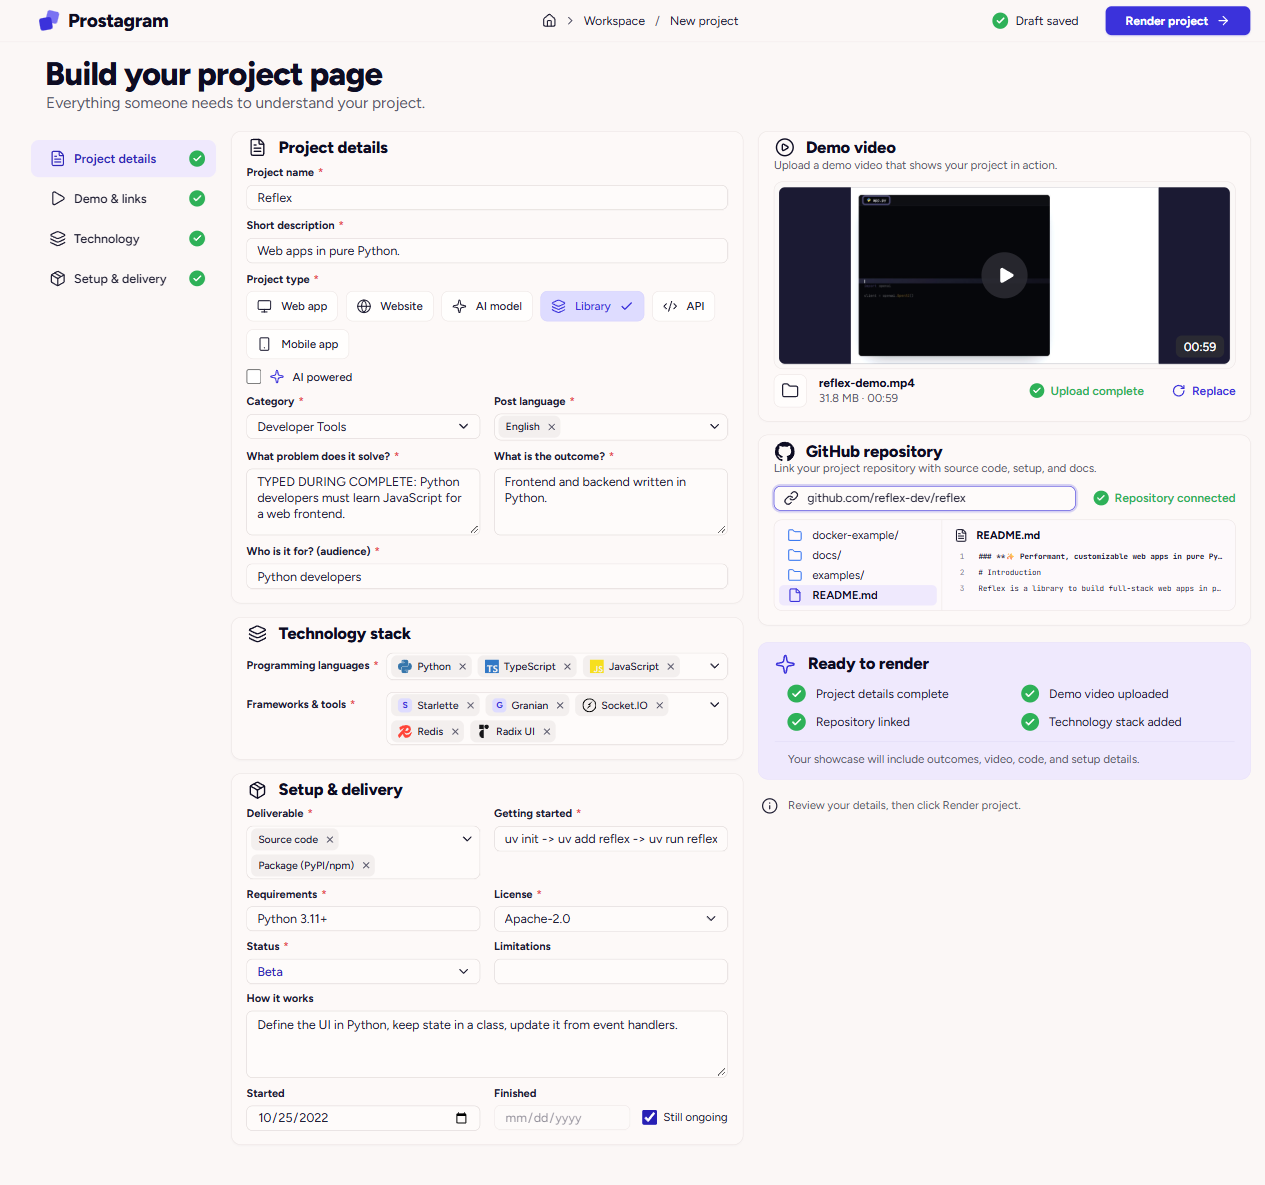
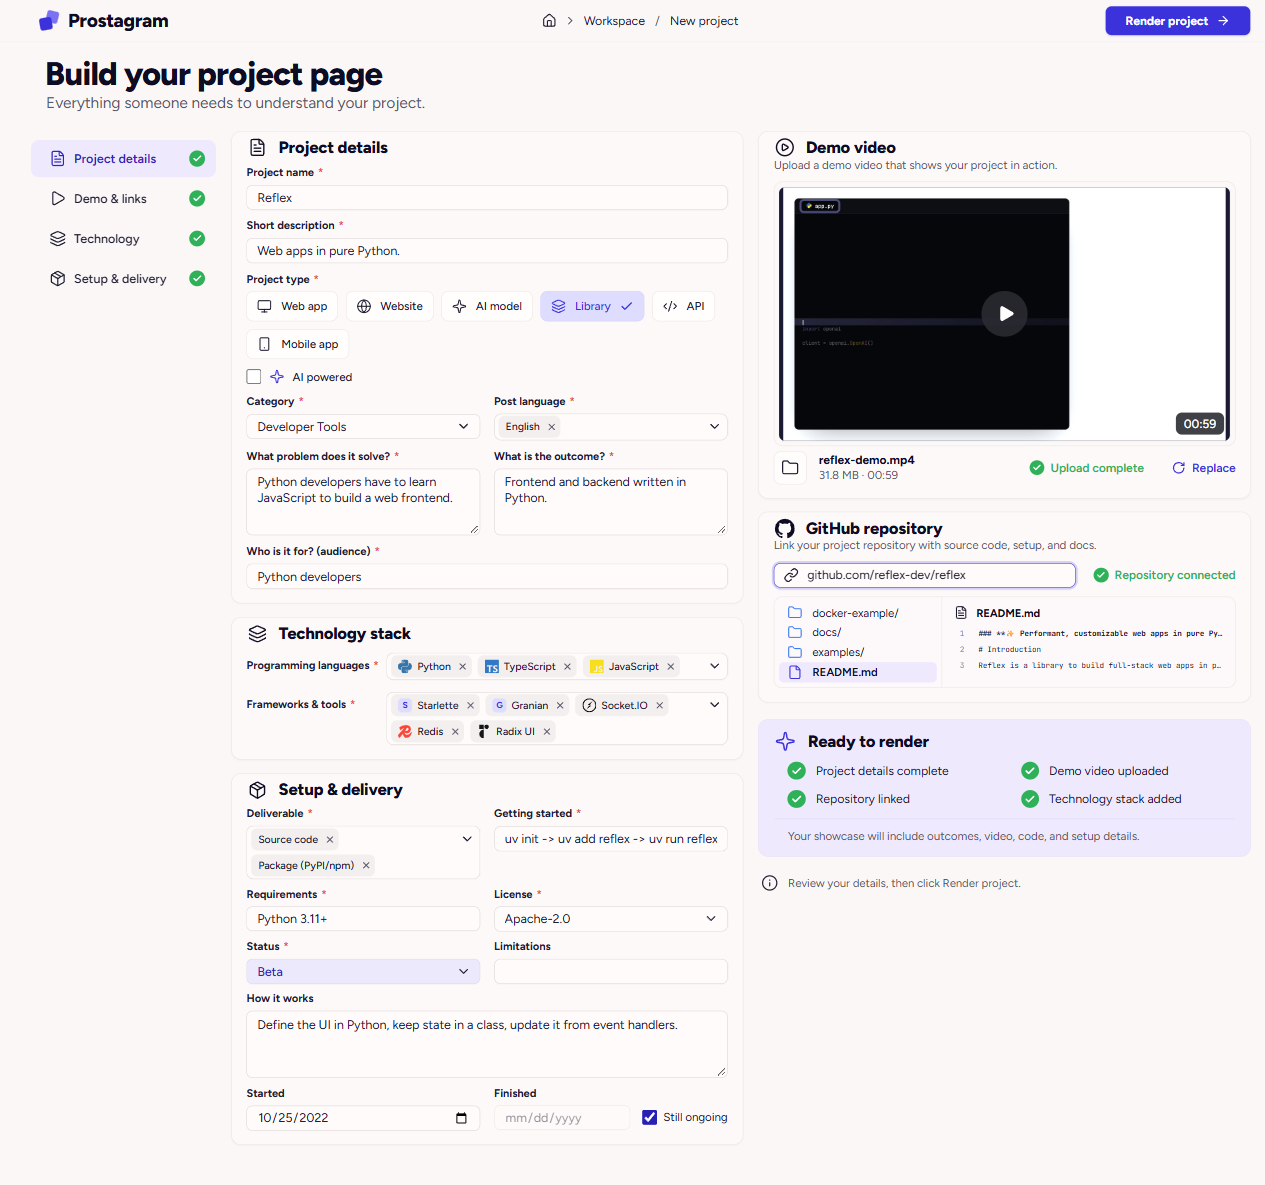
docs: decision D24 (no drafts), new upload flow in the spec and architecture notes

Changed region(s): [[0.6166, 0.1561, 0.9866, 0.7494], [0.185, 0.4059, 0.37, 0.4371], [0.7708, 0.0, 0.8324, 0.0312]]

diff --git a/docs/architecture.md b/docs/architecture.md
@@ -47,12 +47,12 @@ backend/app/
   errors.py    turns every error into one JSON shape
   health.py    GET /api/health
   catalog.py   every fixed list, text limit, upload rule and the tech catalog; GET /api/v1/catalog
-  storage.py   Cloudflare R2: signs upload/download links, checks and deletes files
+  storage.py   Cloudflare R2: signs upload/download links, checks, copies and deletes files
   github.py    reads a public repo once and makes its preview
   projects/    the project feature, split by job:
     models.py    the projects table
     schemas.py   what each endpoint accepts and returns (the API contract)
-    service.py   the business rules (drafts, uploads, repo, publishing)
+    service.py   the business rules (upload links, repo preview, creating a project on Render)
     router.py    HTTP only: read the request, call the service, return the answer
 backend/alembic/   database migrations (versioned changes to the tables)
 backend/tests/     tests that run against a real PostgreSQL test database
@@ -66,8 +66,8 @@ router.py  ->  service.py  ->  models.py (database)
 ```
 
 - The **router** knows HTTP (paths, status codes) and nothing about rules.
-- The **service** holds every rule ("a published project cannot be changed", "an ongoing project
-  has no finish date") and knows nothing about HTTP. It can be tested and reused without a request.
+- The **service** holds every rule ("only a file key this API handed out may be used", "an ongoing
+  project has no finish date") and knows nothing about HTTP. It can be tested and reused without a request.
 - **Who saves to the database:** each public service function is one unit of work and calls
   `commit` itself, at its end. Routers never commit. One rule means every change is saved exactly once,
   and a function that fails halfway saves nothing.
@@ -128,41 +128,65 @@ Why: the frontend needs one place that shows errors, not one per endpoint.
 - Constraint names follow a fixed pattern (`db.py`, `NAMING_CONVENTION`), so migrations are
   readable and the same on every machine.
 
-### The projects table: draft and published in one row
+### Nothing is stored before Render (Bek, 2026-11-24)
 
-- A project is created empty when the person starts typing, and every change is saved
-  ("autosave", `PATCH /api/v1/projects/{id}`). There is no separate drafts table.
-- `published_at` is the only switch: empty means draft, a time means published. A second
-  "state" column would duplicate it and could disagree with it.
-- The id is a random UUID: without login, a counting number (1, 2, 3...) would let anyone open other
-  people's drafts by guessing.
-- `slug` (the page address, `/projects/reflex`) is set when publishing, made from the name. The
-  database has a unique rule on it; if two projects want "reflex" at the same moment, the second one
-  hits that rule, and the service retries with "reflex-2". Checking first and then saving would leave
-  a gap between the two steps where both could pass.
+An unfinished form is not wanted: closing the page or pressing F5 must give an empty form. So the
+server keeps nothing until "Render project" is pressed:
+
+| Moment | Where the data is |
+|---|---|
+| typing | only in the browser's memory (React state) |
+| video chosen | the file in R2's temporary folder `uploads/`; the browser remembers its key |
+| repo link typed | the server reads GitHub and answers a preview; nothing is saved |
+| Render pressed | one request with everything; the server writes one row |
+
+- No drafts means no draft code: no autosave queue, no merge rule, no "reopen a draft" address, no
+  clean-up job for abandoned drafts.
+- Abandoned files stay only in `uploads/`. A lifecycle rule on the bucket (set once in the
+  Cloudflare dashboard) deletes anything there after one day, with no code of ours.
+
+### The projects table: one row per published project
+
+- A row is written only on Render, so every row is a published project: `slug` and `published_at`
+  are always set (the database enforces it, migration 0002).
+- The id is a random UUID chosen by the server before the row is written: the files are copied
+  under it first.
+- `slug` (the page address, `/projects/reflex`) is made from the name. The database has a unique
+  rule on it; if two projects want "reflex" at the same moment, the second one hits that rule, and
+  the service retries with "reflex-2". Checking first and then saving would leave a gap between the
+  two steps where both could pass.
 - Lists (languages, deliverables) are PostgreSQL arrays; the repo preview is JSON (`jsonb`), because it
   is always read and written as one piece.
-- **What is required** is decided in one place, `service.missing_fields()`. Every project answer
-  includes that list, the upload page shows it, and publishing checks it again. The frontend
-  has no copy of the rule that could drift.
+- **What is required** is one list, `catalog.REQUIRED_FIELDS`. The catalog sends it to the browser,
+  which shows the checklist from it; Render checks the same list again on the server. There is no
+  second copy of the rule that could drift.
 
-### Uploading a video (presigned URLs)
+### Uploading a video and creating the project (presigned URLs)
 
 ```
-1. browser -> API   "I want to upload reflex-demo.mp4, video/mp4, 33,372,331 bytes"
-2. API              checks type and size, signs a one-time upload link (15 minutes)
-3. browser -> R2    uploads the file straight to R2 with that link (progress bar)
-4. browser -> API   "done"
-5. API -> R2        checks the file is really there, with the right size and type,
-                    then saves its key on the project (and deletes the replaced video)
+1. browser -> API   "I want to upload a video/mp4 of 33,372,331 bytes"
+2. API              checks type and size, signs a one-time upload link (15 minutes) for the
+                    temporary key uploads/<random>/video.mp4
+3. browser -> R2    uploads the file straight to R2 with that link (progress bar); the preview on
+                    the page plays the person's own file from memory
+   ... the person finishes the form ...
+4. browser -> API   Render: every field, the video and poster keys, the repo link (one request)
+5. API              checks the fields; the keys must look like keys it handed out; looks at R2 to
+                    see the video is really there with an allowed type and size; reads GitHub;
+                    copies the files inside R2 to videos/<project id>/ and posters/<project id>/;
+                    writes the row; deletes the temporary originals
 ```
 
 - **Why not through our server:** a Vercel function accepts at most 4.5 MB per request and a Modal
   request may last at most 150 s; a 300 MB video breaks both, and the traffic would be paid twice.
 - **What the signature locks:** the link is valid for one file name, one content type and one exact
   size. Verified on R2: a different size or type is refused with 403.
-- **Step 5 is still needed:** the browser could skip the upload or send something else, so the API
-  never trusts the browser's "done" without looking at R2 itself.
+- **Step 5 never trusts the browser:** the browser could send a key it did not upload, or someone
+  else's published video, so the API accepts only `uploads/...` keys and looks at R2 itself.
+- **Why copy instead of keeping the temporary key:** the lifecycle rule empties `uploads/` after a
+  day; a published video must live outside it. The copy happens inside R2 (no download).
+- **If something fails in step 5** (GitHub down, database error), the copies are deleted and no row
+  is written; the temporary files stay, so pressing Render again works.
 - **Watching a video:** the bucket is private. Each project answer contains fresh download links,
   valid for one hour, so a link that leaks stops working. Seeking works because R2 answers "give
   me bytes 1000-2000" requests (verified: 206 Partial Content).
@@ -172,16 +196,18 @@ Why: the frontend needs one place that shows errors, not one per endpoint.
 
 ### Repository preview
 
-When a repo is linked, the API reads it from GitHub once (repo info, root folder list, README) and
-stores a small preview with the project. Showing a project never calls GitHub: GitHub allows only 60
+When a repo link is typed, the API reads it from GitHub (repo info, root folder list, README) and
+answers a preview without storing it. On Render the API reads GitHub again itself (the browser's
+preview is never trusted) and stores the small preview with the project. Showing a project never
+calls GitHub: GitHub allows only 60
 anonymous requests per hour from one server address, and an optional `GITHUB_API_TOKEN` raises that to
 5,000 (useful on Modal, whose outgoing addresses may be shared with other users).
 
 ### No caching of API answers
 
-Every `/api` answer carries `Cache-Control: no-store` (`main.py`). The answers contain download links
-that expire after an hour and drafts that change every second, and on Vercel they pass through a
-proxy. A cached answer could hand out dead links or one person's draft to another.
+Every `/api` answer carries `Cache-Control: no-store` (`main.py`). The answers contain upload and
+download links that expire, and on Vercel they pass through a proxy. A cached answer could hand out
+dead links, or one person's upload link to another.
 
 ### Tests
 
@@ -224,21 +250,20 @@ Next.js 16 (App Router), React 19, TypeScript, Tailwind CSS 4.
   the status stays 200; Next.js adds `noindex` so search engines do not keep it (documented
   behaviour, `node_modules/next/dist/docs/.../not-found.md`).
 
-### The upload page: autosave without losing typing (`src/lib/use-project-draft.ts`)
+### The upload page: the form lives in the browser (`src/lib/use-project-form.ts`)
 
-- **Draft created once.** The first edit (or the first upload) creates the draft through one
-  shared promise, so two things at once cannot create two drafts. Its id goes into the address
-  (`/new?draft=<id>`), so a reload reopens it.
-- **Saving.** About 800 ms after typing stops, only the changed fields are sent (PATCH).
-- **One queue for every request.** Saves, upload steps, repo link and publish run one after
-  another. Answers therefore arrive in order; an old answer can never arrive after a newer one.
-- **The merge rule.** When an answer arrives, a field takes the server's value only if it is not
-  waiting to be saved and was not edited since the request left. So typing is never overwritten,
-  and the server's clean-up still shows (trimmed text, "python" -> "Python").
-- **Failures are visible.** A failed save keeps the fields waiting, shows the reason in the header
-  (and on the date fields for date errors), and "Render" refuses to publish unsaved changes.
-- **Closing the tab.** On `pagehide`, unsaved fields are sent with `keepalive`, a request the
-  browser finishes even after the page is gone.
+- **State.** The typed fields, the uploaded video (its temporary key, name, size, length) and the
+  repo preview are React state. The checklist ("Ready to render", the side nav checks) is computed
+  from them and the catalog's `required_fields`, with the server's blank rule (spaces only = empty).
+- **Leaving the page empties it.** F5 or closing the tab: the browser's memory is gone. Moving to
+  another page of the site: Next.js keeps the page hidden (React `Activity`) and would show the old
+  form on return, so a `useLayoutEffect` clean-up resets the state when the page is hidden
+  (`node_modules/next/dist/docs/01-app/02-guides/preserving-ui-state.md`).
+- **Render.** One request with everything. A ref (not state) blocks a second click before React
+  re-renders the button; after success the lock stays on until the page is left, so one form can
+  create only one project.
+- **Dates.** The two date rules are checked while typing and shown on the date fields; the server
+  checks them again on Render.
 
 ### The upload page: sending the video
 
@@ -247,10 +272,10 @@ Next.js 16 (App Router), React 19, TypeScript, Tailwind CSS 4.
   video is uploaded without a poster instead of waiting forever.
 - The upload to R2 uses `XMLHttpRequest`, not `fetch`, because only XHR reports upload progress
   (the progress bar).
-- **Stable links.** Every project answer carries newly signed links (a new signature each time)
-  for the same file. If the player took each new link, it would reload on every autosave. So the
-  page keeps the first link while the file path stays the same, and swaps in the newest one when
-  play is pressed after 50 minutes (links last 60).
+- The video counts as uploaded only after its poster upload has finished (or failed), so Render
+  cannot run in between and save the project without its still image.
+- The preview plays the person's own file from memory (`URL.createObjectURL`), so nothing is
+  downloaded back from R2 and no signed link can expire on this page.
 
 ### The project page: one player, two places
 

diff --git a/docs/specs/2026-11-23-prostagram-upload-and-project-pages.md b/docs/specs/2026-11-23-prostagram-upload-and-project-pages.md
@@ -46,14 +46,15 @@ Out of scope now: login, explore page, editing a rendered project, likes, commen
 | D21 | Old files (`backend/`, `frontend/`, `docs/` except this spec and the mockups, `seed/`, `docker-compose.yml`, `README.md`) are deleted in the first commit; a new README replaces the old one. The local `.env` is kept. The new code again lives in `backend/` and `frontend/` (the Vercel project builds from `frontend/`). |
 | D22 | Friends get the link of the new app to test it. |
 | D23 | Video box is 16:9 on both pages (Bek, 2026-11-23), not the mockup's wide 452:177 shape, so 16:9 demo videos show without side bars. |
+| D24 | No drafts (Bek, 2026-11-24): nothing is stored before "Render project". Closing the page, F5 or leaving it for another page of the site gives an empty form; an unfinished form is not wanted. The form lives in the browser, files wait in R2's temporary folder `uploads/` (a bucket lifecycle rule deletes them after 1 day), and Render sends one request that creates the published project. The mockup's "Draft saved" status is removed. The project page's logo links to the home page `/`. Replaces T1. |
 
 ## 3. Choices made by Claude (technical, Bek may object)
 
 | # | Choice | Why |
 |---|---|---|
-| T1 | A draft is created on the server at the first edit; every change autosaves about 1 s after typing stops; the header shows "Draft saved". The draft id goes into the address (`/new?draft=<id>`), so a page reload or a copied link opens the same draft. | The mockup shows "Draft saved"; without login, the address is the only way back to a draft. |
-| T2 | "Render project" checks all required fields; if one is missing it scrolls to it and shows the error. When everything is valid the project becomes published and the browser opens its project page. | The mockup shows "Ready to render" and a "Render project" button. |
-| T3 | Project ids are random UUIDs. | Without login, a guessable number would let anyone edit someone else's draft by counting. |
+| T1 | ~~Server-side draft with autosave and `/new?draft=<id>`.~~ Replaced by D24 (2026-11-24). | |
+| T2 | "Render project" checks all required fields in the browser (the list comes from the catalog); if one is missing it scrolls to it and shows the error. The server checks the same list again; when everything is valid the project is created and the browser opens its project page. | The mockup shows "Ready to render" and a "Render project" button. |
+| T3 | Project ids are random UUIDs, chosen by the server before the row is written (the files are copied under the id first). | Not guessable, and known before the insert. |
 | T4 | Empty optional fields hide their element on the project page (How it works card, Limitations card, Timeline row). | No empty boxes. |
 | T5 | A custom technology typed into "Programming languages" goes to the Languages row; one typed into "Frameworks & tools" goes to an "Other" row. | The field tells us it is a language; a tool's group is not known. |
 | T6 | Video formats: MP4 and WebM only. | Every browser plays them; MOV plays reliably only in Safari [A]. |
@@ -66,8 +67,8 @@ Out of scope now: login, explore page, editing a rendered project, likes, commen
 
 Layout from `docs/mockups/upload-page.png`:
 
-- **Header:** logo + "Prostagram"; centre breadcrumb "home > Workspace / New project"; right "Draft
-  saved" (green check, only after the first save) and the primary button "Render project ->".
+- **Header:** logo + "Prostagram"; centre breadcrumb "home > Workspace / New project"; right the
+  primary button "Render project ->". (The mockup's "Draft saved" is removed, D24.)
 - **Title:** "Build your project page", subtitle "Everything someone needs to understand your project."
 - **Left nav (sticky):** Project details, Demo & links, Technology, Setup & delivery. Clicking scrolls
   to the section. A green check appears when all required fields of that section are filled.
@@ -160,19 +161,27 @@ with the R2 secret, that allows exactly one upload of one file to one place for 
 
 ### 7.2 Flow
 
+Since D24 (2026-11-24) nothing is stored before Render:
+
 ```
-1. browser -> backend   POST /api/v1/projects/{id}/uploads/video/url  {file name, type, size}
+1. browser -> backend   POST /api/v1/uploads/video/url  {type, size}
 2. backend              checks: type is video/mp4 or video/webm, size <= 300 MB (314,572,800 bytes)
-                        signs a PUT URL for key videos/{project_id}/{random}.{ext}, valid 15 min,
-                        with the exact Content-Type and Content-Length signed in
-3. browser -> R2        PUT the file to that URL (progress bar from upload events)
-4. browser -> backend   POST /api/v1/projects/{id}/uploads/video/complete  {key, file name, duration}
-5. backend -> R2        HEAD the object: exists, size and type match; then saves the key on the
-                        project and deletes the previous video, if any
+                        signs a PUT URL for the temporary key uploads/{random}/video.{ext}, valid
+                        15 min, with the exact Content-Type and Content-Length signed in
+3. browser -> R2        PUT the file to that URL (progress bar from upload events); the preview on
+                        the page plays the person's own file from memory
+   (the first-frame JPEG, T7, goes the same way to uploads/{random}/poster.jpg, max 2 MB)
+4. browser -> backend   Render: POST /api/v1/projects  {all fields, video key, poster key, repo link}
+5. backend              checks the fields; the keys must look like keys it handed out; HEAD the
+                        video in R2 (exists, allowed type and size); reads GitHub itself; copies the
+                        files inside R2 to videos/{project_id}/... and posters/{project_id}/...;
+                        writes the row; then deletes the temporary originals
 ```
 
-The first-frame JPEG (T7) uses the same flow (`uploads/poster/...`) with key
-`posters/{project_id}/{random}.jpg`, max 2 MB.
+A form that is never rendered leaves its files in `uploads/`; the bucket's lifecycle rule (prefix
+`uploads/`, delete after 1 day) removes them [V: Cloudflare R2 object lifecycle docs, prefix rules,
+deletion within about 24 h of expiry]. R2 copies objects server-side and keeps the content type [V:
+copy_object test, 2026-11-24].
 
 Verified live on R2 (2026-11-23) with the 31.8 MB reflex video: a PUT with a different size or
 content type than signed is refused with 403 [V]; the real upload returns 200 [V].
@@ -201,10 +210,11 @@ Both are done by Bek in one Cloudflare dashboard session (Claude gives the exact
 
 ## 8. Repository preview
 
-When the user links a repo, the backend calls the GitHub API once (repo info, root folder list, README)
-and stores a snapshot on the project: full name, public/private, description, default branch, root
-entries (name and type), the first 3 lines of the README, fetch time. The project page reads only the
-snapshot. Reason: GitHub allows 60 unauthenticated requests per hour [V: api.github.com/rate_limit
+When the user links a repo, the backend calls the GitHub API (repo info, root folder list, README) and
+answers a preview, storing nothing (`POST /repos/preview`, D24). On Render the backend reads GitHub
+again itself and stores the snapshot on the project: full name, public/private, description, default
+branch, root entries (name and type), the first 3 lines of the README, fetch time. The project page
+reads only the snapshot. Reason: GitHub allows 60 unauthenticated requests per hour [V: api.github.com/rate_limit
 returned limit 60]. Linking again refreshes the snapshot. Only public repos can be linked.
 
 ## 9. Backend shape
@@ -216,16 +226,15 @@ returned limit 60]. Linking again refreshes the snapshot. Only public repos can 
   Video bytes are the exception: they go browser -> R2 directly (section 7).
 - FastAPI, SQLAlchemy 2 (async), Alembic, PostgreSQL. Exact versions pinned in the plan.
 - One table `projects` (UUID id, every form field above, video and poster keys, video size and
-  duration, repo URL and snapshot as JSON, created/updated times). `published_at` is NULL for a
-  draft and set when published; `slug` is unique and set only when published.
-- Endpoints (`/api/v1`): `GET /catalog` (all lists, text limits, upload rules, tech catalog);
-  `POST /projects` (create draft); `GET /projects/{id}` (reopen a draft); `PATCH /projects/{id}`
-  (autosave, drafts only); `POST /projects/{id}/uploads/{video|poster}/url` and `.../complete`;
-  `POST /projects/{id}/repo`; `POST /projects/{id}/publish` (the "Render project" button);
-  `GET /projects/by-slug/{slug}` (project page, step 5).
-- Every project response carries `missing_fields`, computed by the backend. The upload page's
-  section checks and "Ready to render" list read it, and publishing re-checks it, so the rule of
-  what is required exists in one place.
+  duration, repo URL and snapshot as JSON, created/updated times). Every row is a published project
+  (D24): `slug` (unique) and `published_at` are always set (migration 0002).
+- Endpoints (`/api/v1`): `GET /catalog` (all lists, text limits, upload rules, required fields, tech
+  catalog); `POST /uploads/{video|poster}/url` (signed link into `uploads/`); `POST /repos/preview`;
+  `POST /projects` (the "Render project" button: creates the published project);
+  `GET /projects/by-slug/{slug}` and `GET /projects/by-slug/{slug}/video` (project page).
+- The required fields are one list in the backend (`catalog.REQUIRED_FIELDS`), sent to the browser
+  in the catalog. The upload page's section checks and "Ready to render" list use it, and Render
+  re-checks it on the server, so the rule of what is required exists in one place.
 - One error shape for every error: `{"error": {"code": "...", "message": "..."}}`.
 - Tests: pytest against a real local PostgreSQL; R2 and GitHub are faked in tests.
 - `docs/architecture.md` is written alongside the code in plain language, so Bek can explain every part
@@ -295,5 +304,7 @@ Each step ends with a report to Bek before the next starts.
   The new compose file now has its own project name (`prostagram`). Old volume and containers: removed
   later if Bek wants.
 - CI: the old GitHub Actions workflow was deleted with the old code; a new one is not set up yet.
-- Orphan videos (a draft abandoned after upload): not cleaned up yet.
+- ~~Orphan videos (a draft abandoned after upload): not cleaned up yet.~~ Solved by D24: abandoned
+  files sit only in `uploads/`, which the bucket lifecycle rule empties after 1 day (rule added by
+  Bek in the Cloudflare dashboard).
 - Rate limiting and abuse protection: not needed while only friends use the app (Bek, 2026-11-23).

diff --git a/docs/design/screenshots/upload/MATCH.md b/docs/design/screenshots/upload/MATCH.md
@@ -8,7 +8,8 @@ Positions were measured by scanning card borders in both images (`diff-1280.png`
 |---|---|---|---|
 | Header height, bottom line | 42 px | 42 px | MATCH |
 | Logo and name | "Projectfolio" | "Prostagram", same logo shape | EXPECTED (decision D3) |
-| Breadcrumb, Draft saved | centred / right | same | MATCH |
+| Breadcrumb | centred | same | MATCH |
+| Draft saved | right of the header | removed | EXPECTED: nothing is saved before Render (Bek, 2026-11-24, D24) |
 | Render project button | x 1104-1250, h 29 | x 1105-1250, h 29 | MATCH |
 | Title "Build your project page" | 32.7 px, x 45 | 32.7 px, x 45 | MATCH |
 | Side nav | x 31-216, rows 37 px | same | MATCH |
